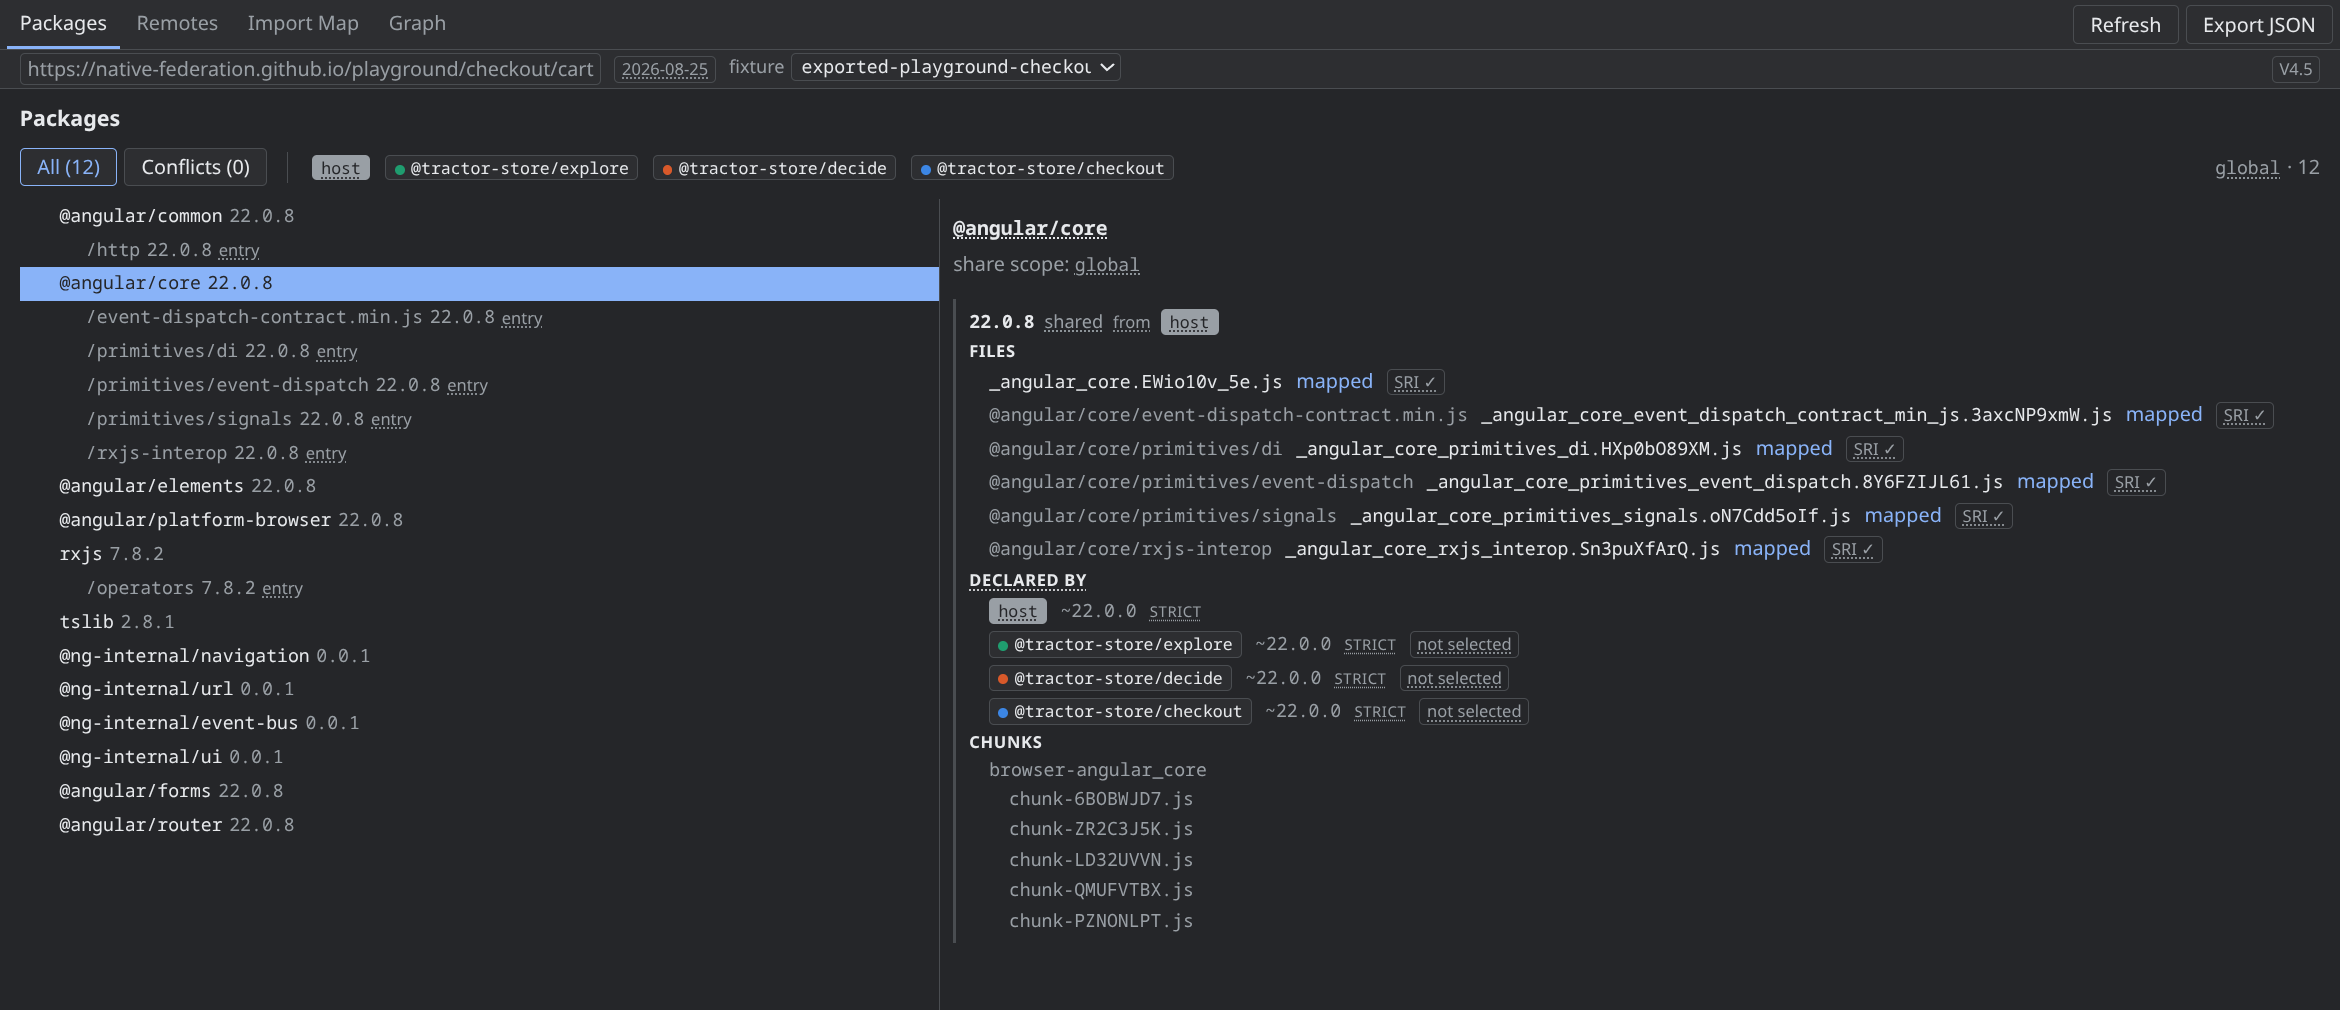
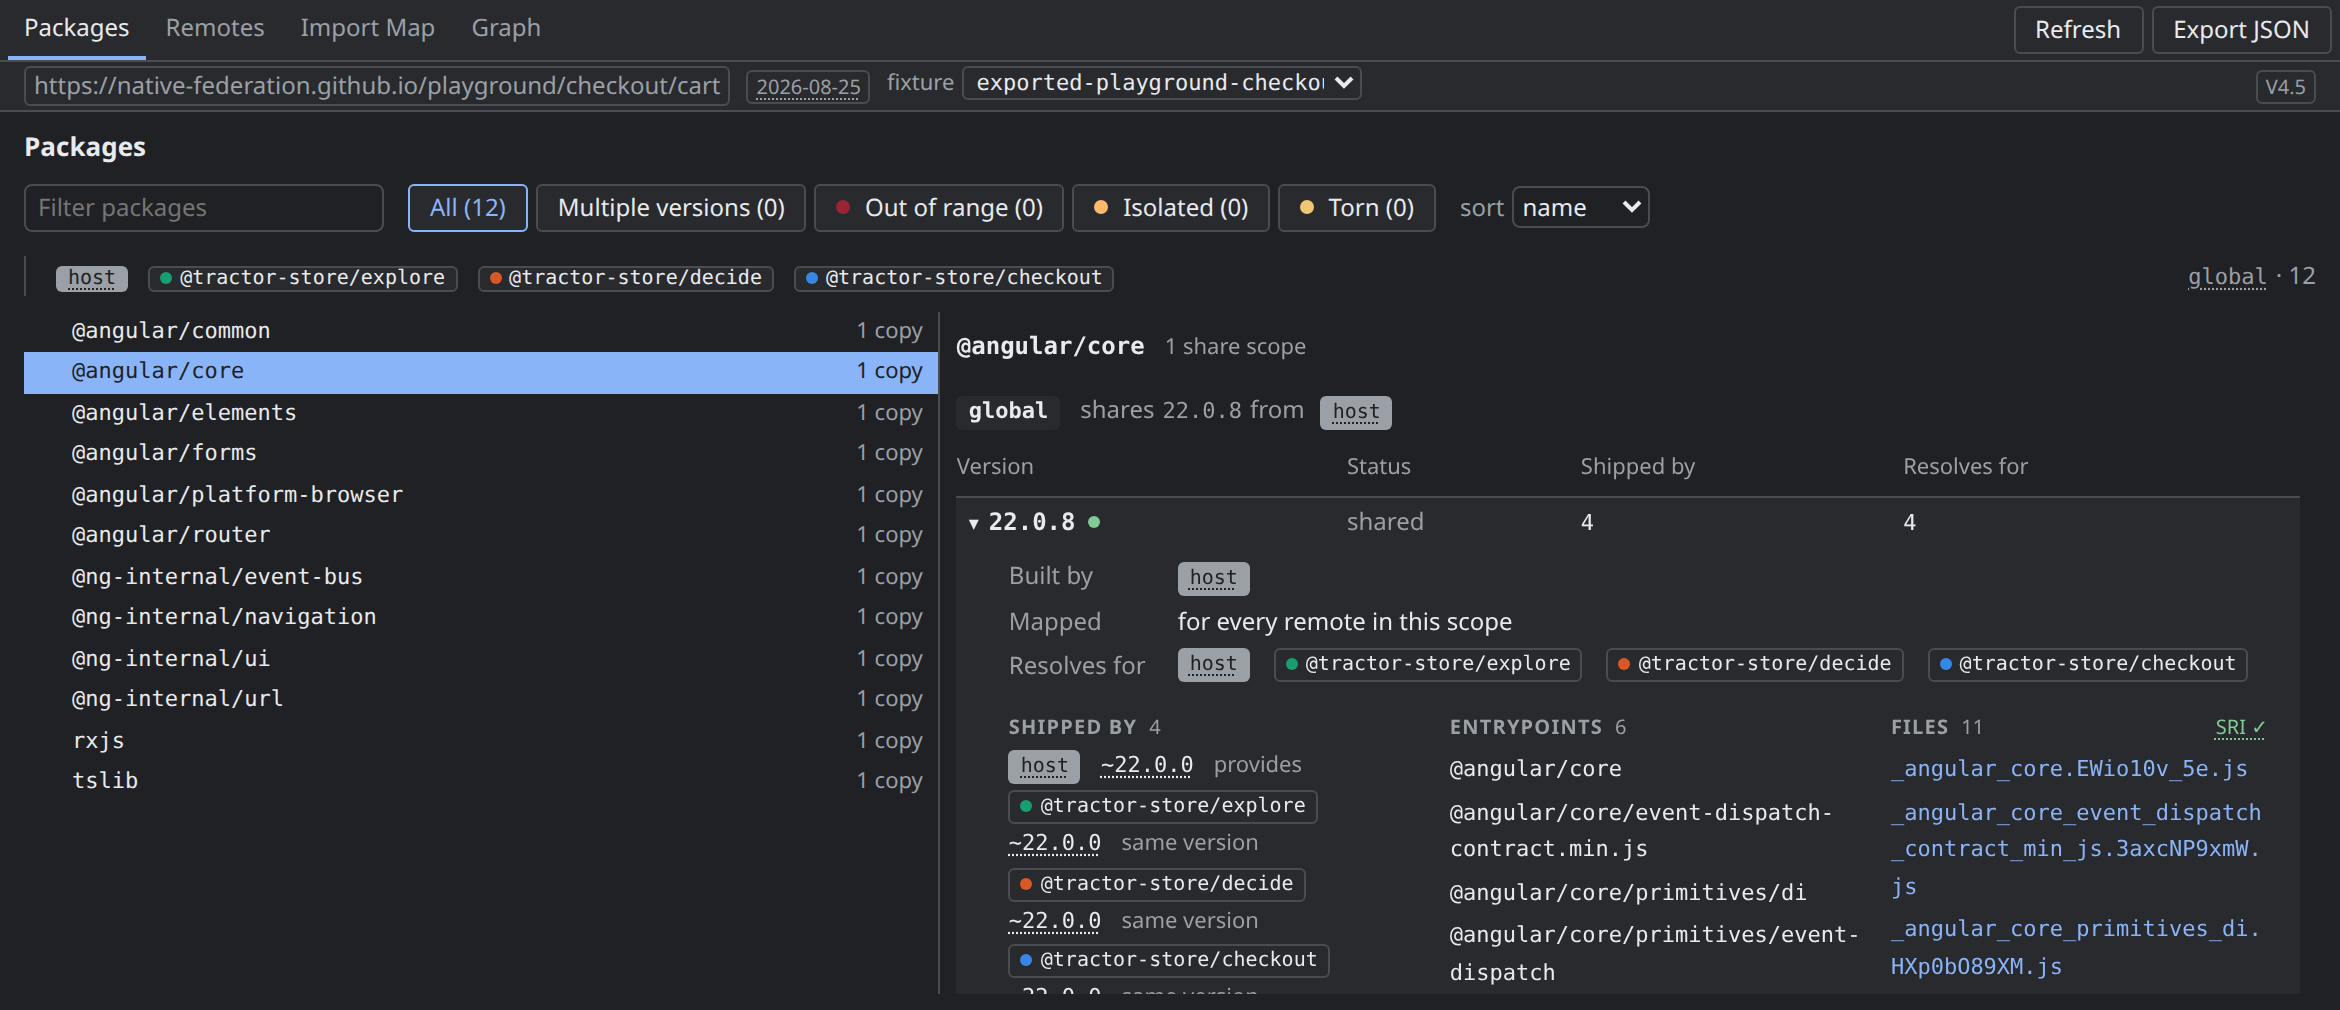
task-7: README, development notes and Packages screenshots

diff --git a/projects/devtools-ui/src/app/views/packages/packages.html b/projects/devtools-ui/src/app/views/packages/packages.html
@@ -31,6 +31,14 @@
             </button>
           }
         </div>
+        <label class="packages-sort">
+          sort
+          <select id="packages-sort" [value]="sort()" (change)="setSort($any($event.target).value)">
+            <option value="name">name</option>
+            <option value="copies">copies</option>
+            <option value="remotes">remotes</option>
+          </select>
+        </label>
         @if (vm.participants.length > 0) {
           <div class="participant-filter" role="group" aria-label="filter by participant">
             @for (participant of vm.participants; track participant.name) {
@@ -47,28 +55,20 @@
             }
           </div>
         }
+        <ul class="scopes-summary" aria-label="share scopes">
+          @for (scope of vm.scopes; track scope.scope) {
+            <li class="scope-item">
+              <span
+                class="scope-name"
+                [class.tip]="scope.label !== scope.scope"
+                [attr.title]="scope.label === scope.scope ? null : scope.scope"
+                >{{ scope.label }}</span
+              >
+              <span class="scope-count">{{ scope.packageCount }}</span>
+            </li>
+          }
+        </ul>
       </div>
-      <ul class="scopes-summary" aria-label="share scopes">
-        @for (scope of vm.scopes; track scope.scope) {
-          <li class="scope-item">
-            <span
-              class="scope-name"
-              [class.tip]="scope.label !== scope.scope"
-              [attr.title]="scope.label === scope.scope ? null : scope.scope"
-              >{{ scope.label }}</span
-            >
-            <span class="scope-count">{{ scope.packageCount }}</span>
-          </li>
-        }
-      </ul>
-      <label class="packages-sort">
-        sort
-        <select id="packages-sort" [value]="sort()" (change)="setSort($any($event.target).value)">
-          <option value="name">name</option>
-          <option value="copies">copies</option>
-          <option value="remotes">remotes</option>
-        </select>
-      </label>
     </div>
 
     @if (vm.emptyNote) {

diff --git a/projects/devtools-ui/src/app/views/packages/packages.spec.ts b/projects/devtools-ui/src/app/views/packages/packages.spec.ts
@@ -125,13 +125,14 @@ describe('PackagesView', () => {
     expect(toggles[2].querySelector('.chip .dot')?.classList.contains('dot-2')).toBe(true);
     expect(hostToggle.querySelector('.dot')).toBeNull();
 
-    // T7.6-AC-01: buttons + chips form one left filter zone with a visible
-    // divider between them; the scopes summary sits outside the zone and is
-    // pushed to the right edge via its auto margin.
+    // T7.6-AC-01: buttons + chips form one filter zone with a visible divider
+    // between them; the scopes summary ends the zone's last line, pushed to
+    // the right edge via its auto margin (packages-verdicts T7: inside the
+    // zone, so a wrapped toolbar stays two lines).
     const zone = el.querySelector<HTMLElement>('.filter-zone')!;
     expect(zone.querySelector('.filter-group')).not.toBeNull();
     expect(zone.querySelector('.participant-filter')).not.toBeNull();
-    expect(zone.querySelector('.scopes-summary')).toBeNull();
+    expect(zone.lastElementChild?.classList.contains('scopes-summary')).toBe(true);
     expect(getComputedStyle(el.querySelector('.participant-filter')!).borderLeftWidth).toBe('1px');
     expect(getComputedStyle(el.querySelector('.scopes-summary')!).marginLeft).toBe('auto');
 

diff --git a/projects/devtools-ui/src/app/views/packages/packages.css b/projects/devtools-ui/src/app/views/packages/packages.css
@@ -16,6 +16,7 @@
 /* All/Conflicts + participant chips form one left-hand filter zone; the
  * scopes summary is passive info and keeps to the right edge. */
 .filter-zone {
+  flex: 1 1 auto;
   display: inline-flex;
   align-items: baseline;
   gap: 12px;

diff --git a/projects/devtools-ui/src/app/views/packages/package-versions.css b/projects/devtools-ui/src/app/views/packages/package-versions.css
@@ -364,10 +364,10 @@ tbody.dive td {
 }
 
 .shipped li {
-  display: grid;
-  grid-template-columns: minmax(0, 1fr) max-content max-content;
-  gap: 10px;
+  display: flex;
+  flex-wrap: wrap;
   align-items: baseline;
+  gap: 2px 10px;
 }
 
 .verdict {

diff --git a/docs/work/packages-verdicts/task-log/task-7-docs-and-assets.md b/docs/work/packages-verdicts/task-log/task-7-docs-and-assets.md
@@ -1,0 +1,53 @@
+### Task
+
+README and development notes for the new Packages tab; re-shoot the
+README Packages screenshots.
+
+### Status
+
+DONE
+
+UI 638, bridge 105, collector 102, guards 81 green.
+
+### Files Modified
+
+- `README.md` — Packages feature bullet; screenshot alt text and caption.
+- `docs/DEVELOPMENT.md` — Packages paragraph.
+- `docs/assets/readme/packages-{light,dark}.png` — re-shot at the old size
+  (1170×505 CSS px, 2× → 2340×1010) from `exported-playground-checkout`,
+  `@angular/core`, the 22.0.8 deep dive open; Playwright against
+  `ng serve` with `?fixture=`.
+- Fixes the screenshots surfaced at panel width:
+  `package-versions.css` (Shipped by rows wrap instead of overlapping
+  long remote names), `packages.html` / `packages.css` (sort sits beside
+  the status filters and the scopes summary ends the participants line,
+  so the toolbar wraps to two lines, not three), `packages.spec.ts`
+  (toolbar zone assertion).
+
+### Key Decisions
+
+- **No store listing assets on this branch.** `docs/assets/store/` exists
+  on `main` (Chrome Web Store prep) but not on `grouping-and-pooling`, so
+  there is no `screenshot-2-packages.png` to re-shoot here; redo it after
+  this branch merges with `main`.
+- **Same fixture and framing as before**, so the README image swaps
+  without changing the page layout.
+
+### Removed or moved from the old Packages tab
+
+- List: resolved-version tags and the ⚠ glyph per row → status marks and
+  the copy count; entrypoint sub-rows (dense secondaries) → the version
+  deep dive's Entrypoints; the scope chip per row → the detail's scope
+  blocks (only `strict` stays as a row tag).
+- Detail: the package header's share scope / pinned scope meta line →
+  each scope block's tag; the multiplicity header → version notes; copy
+  blocks, the unresolved bucket and the diagnostics footer → kept,
+  under "Bindings per copy" per scope (opens by itself while declarations
+  are unresolved).
+- Filter: Conflicts → Multiple versions (same rule), plus Out of range,
+  Isolated, Torn; new search and sort.
+
+### Acceptance Coverage
+
+- **T7-AC-01** — both screenshots show the versions table with the 22.0.8
+  deep dive open, from a capture fixture, no mock data.

diff --git a/README.md b/README.md
@@ -31,9 +31,10 @@ guesses.
 
 ## What you get
 
-- 📦 **Packages** — the negotiation, per package: every candidate version, who
-  declared which range, which file actually serves it. Conflicts are called
-  out, not averaged away.
+- 📦 **Packages** — the negotiation, per package and share scope: every
+  version, the resolver's verdict for each remote, and a deep dive into who
+  ships it, its entrypoints and its files. Out-of-range remotes, isolated
+  copies and torn entrypoints are called out, not averaged away.
 - 🛰 **Remotes** — each participant from its own point of view: what it
   exposes, what it declares, and where every single dependency really
   resolves.
@@ -65,11 +66,13 @@ the sharing story is visible at a glance.
 
 <picture>
   <source media="(prefers-color-scheme: dark)" srcset="docs/assets/readme/packages-dark.png">
-  <img src="docs/assets/readme/packages-light.png" alt="The Packages tab: @angular/core with its mapped files, SRI coverage, the four participants that declared it with their ranges, and the chunk files it loads">
+  <img src="docs/assets/readme/packages-light.png" alt="The Packages tab: @angular/core 22.0.8 shared from the host, its deep dive open with the four remotes it resolves for, their ranges and verdicts, its six entrypoints and its files with SRI">
 </picture>
 
-Four participants declared `@angular/core` — one version won, three were not
-selected, and every mapped file is accounted for, SRI included.
+Four remotes ship `@angular/core` 22.0.8: the host's build is shared, the
+other three resolve to it, and every entrypoint and file is accounted for, SRI
+included. A remote whose range rejects the shared version is flagged even when
+it isn't strict — the orchestrator stores a plain skip for it.
 
 ## Every remote, from its own point of view
 

diff --git a/docs/DEVELOPMENT.md b/docs/DEVELOPMENT.md
@@ -10,11 +10,14 @@ until its view lands.
 
 ## What it shows
 
-**Packages** — per-package negotiation detail: every candidate version with
-its outcome (shared, scoped, or skipped), the requesting participant and its
-range, strict requirements, and which participant provides the mapped entry.
-Conflicts are listed separately. Includes SRI coverage and chunk mapping where
-the capture provides it.
+**Packages** — one row per package; per share scope the elected version and
+every registered version with its status (shared, scoped, partly mapped, not
+mapped) and the resolver's verdict per declaration (provides, same version,
+reuses shared, own copy, out of range). Filters for multiple versions, out of
+range, isolated and torn packages; a range check per scope; a per-version deep
+dive with shipped by, entrypoints and files (grouped per build when one
+version merges several builds), SRI coverage; the per-copy bindings stay
+available per scope.
 
 **Remotes** — the same data from each participant's point of view: exposes
 with their mapped targets, the remote's own dependency declarations and where
